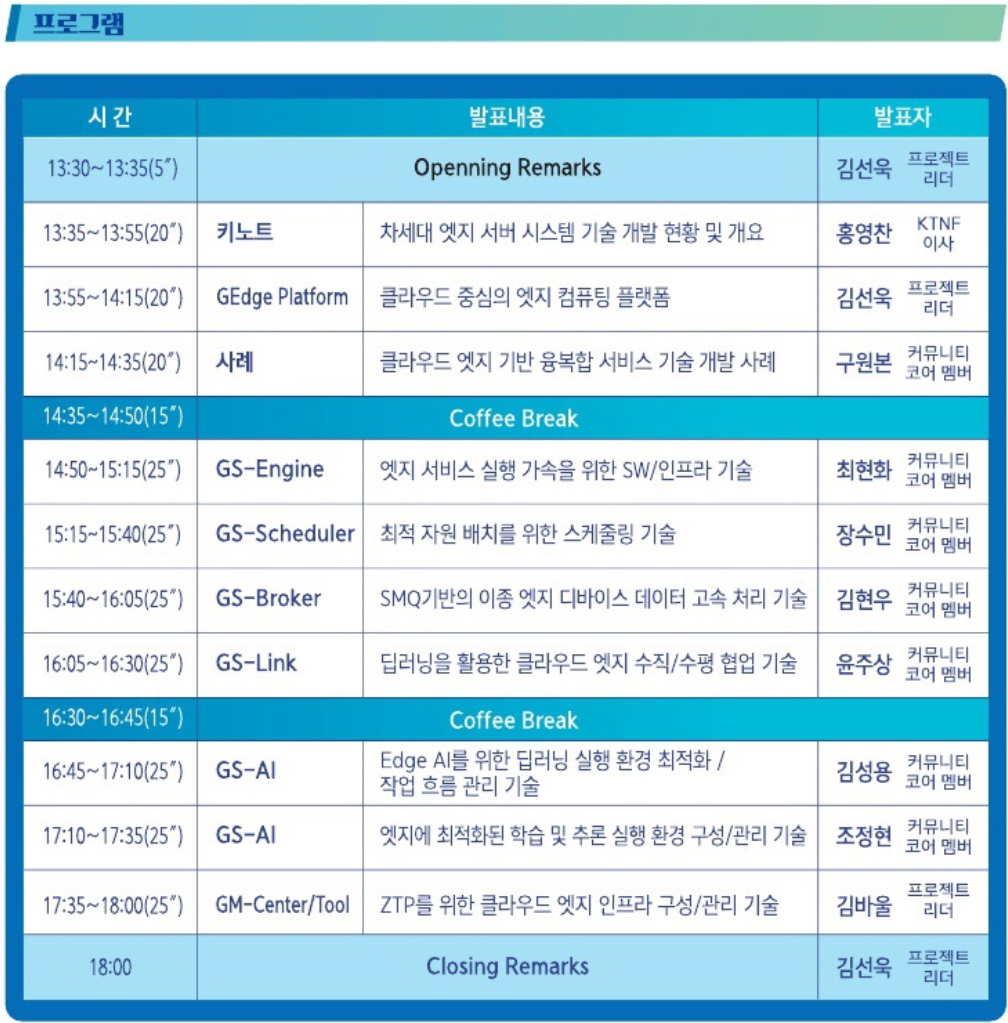
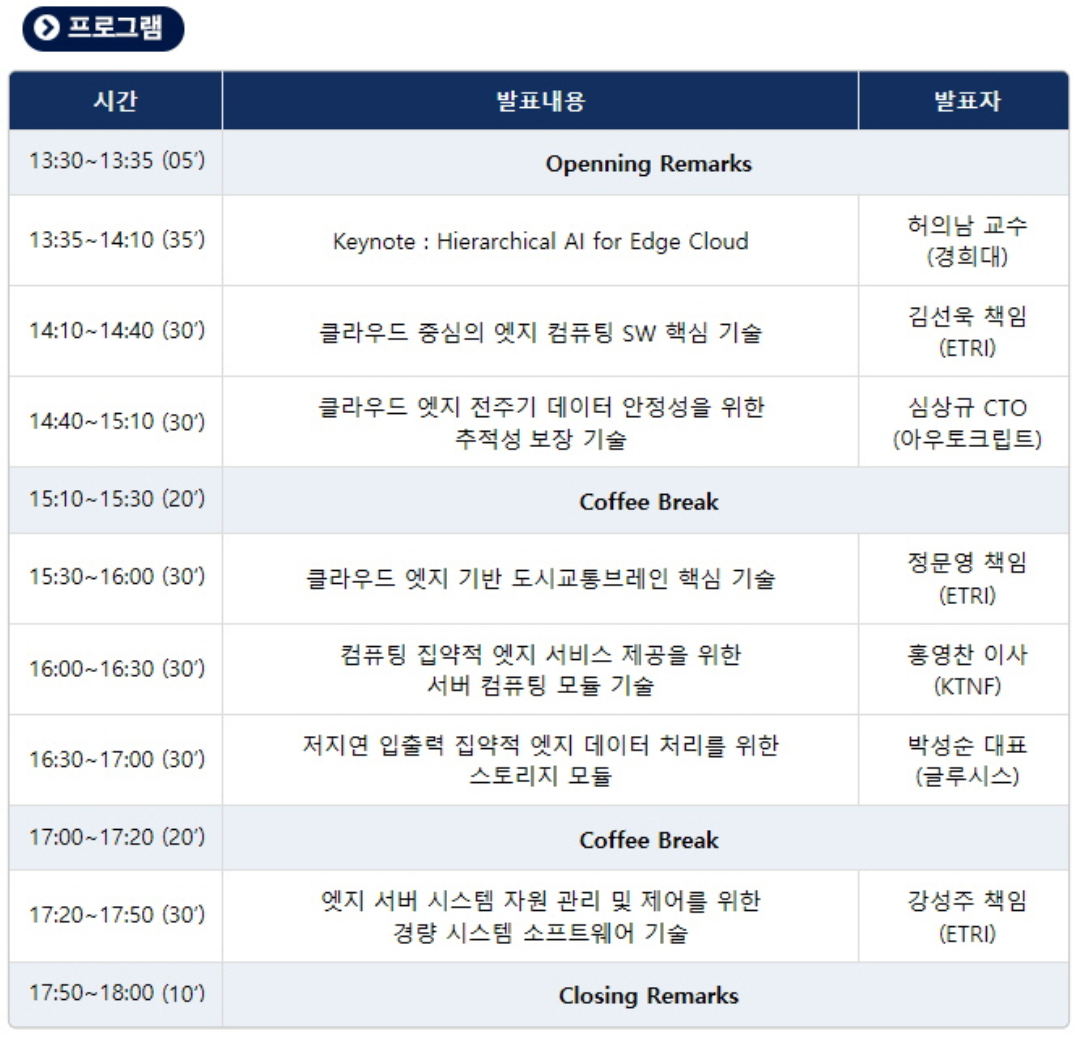
update

diff --git a/_posts/2025-05-10-first-conference.md b/_posts/2025-05-10-first-conference.md
@@ -1,0 +1,13 @@
+---
+title: [공지] openKcloud 1th 오픈 컨퍼런스 개최(7/17, 목)
+author: openKcloud
+layout: post
+---
+
+
+openKcloud 오픈 소스 커뮤니티를 통해 고성능·저전력의 초거대 AI모델 서비스를 제공하기 위한 클라우드 분야의 차기 핵심 기술인 AI 반도체 클라우드 서비스 제공 플랫폼 기술인 openKcloud Platform 개발이 진행되고 있습니다.
+이번 openKcloud 커뮤니티 제1회 오픈 컨퍼런스는 무료 온라인 행사로 진행될 예정이오니 여러분들의 많은 관심과 참여를 부탁드립니다.
+
+<p><img src="/assets//images/icon5.png" alt="Alt text" width="25" height="35" style="border:0px;vertical-align:middle" /> 행 사 명 : openKcloud 1st Open Conference</p>
+<p><img src="/assets//images/icon5.png" width="25" height="35" style="border:0px;vertical-align:middle" /> 행사 프로그램<br />
+<img src="/assets//images/example.png" alt="Alt text" /></p>
